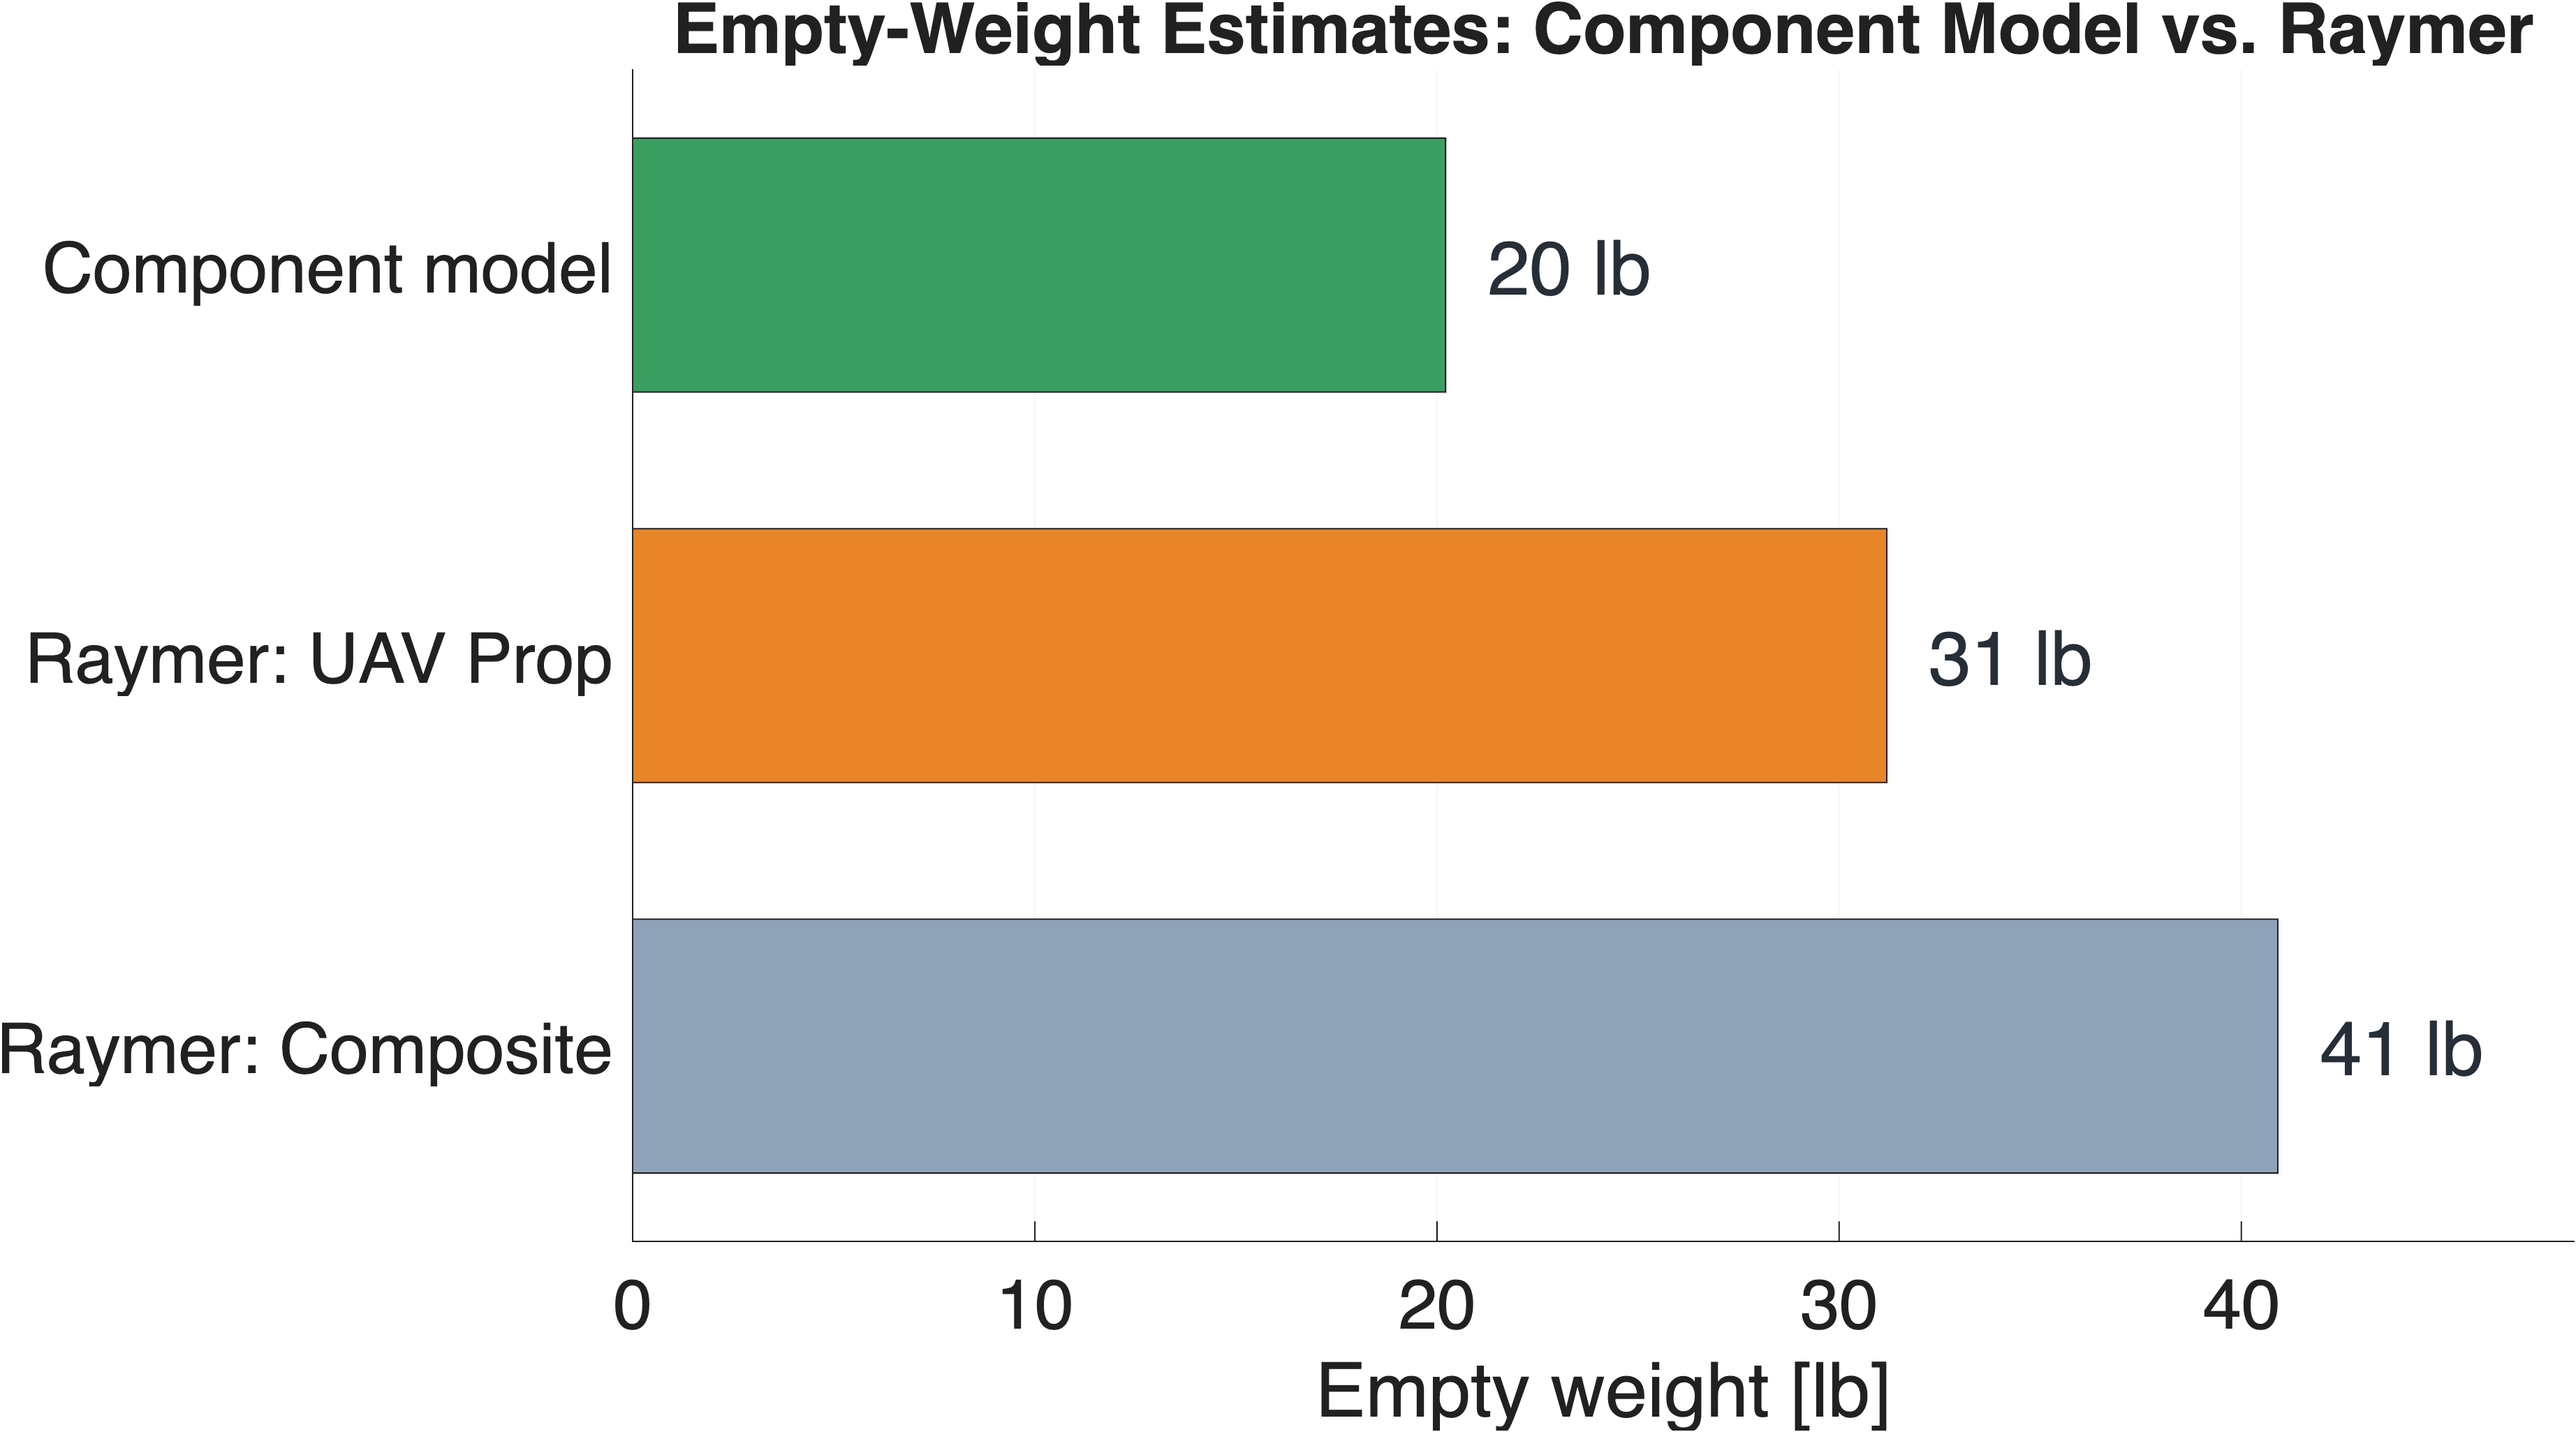
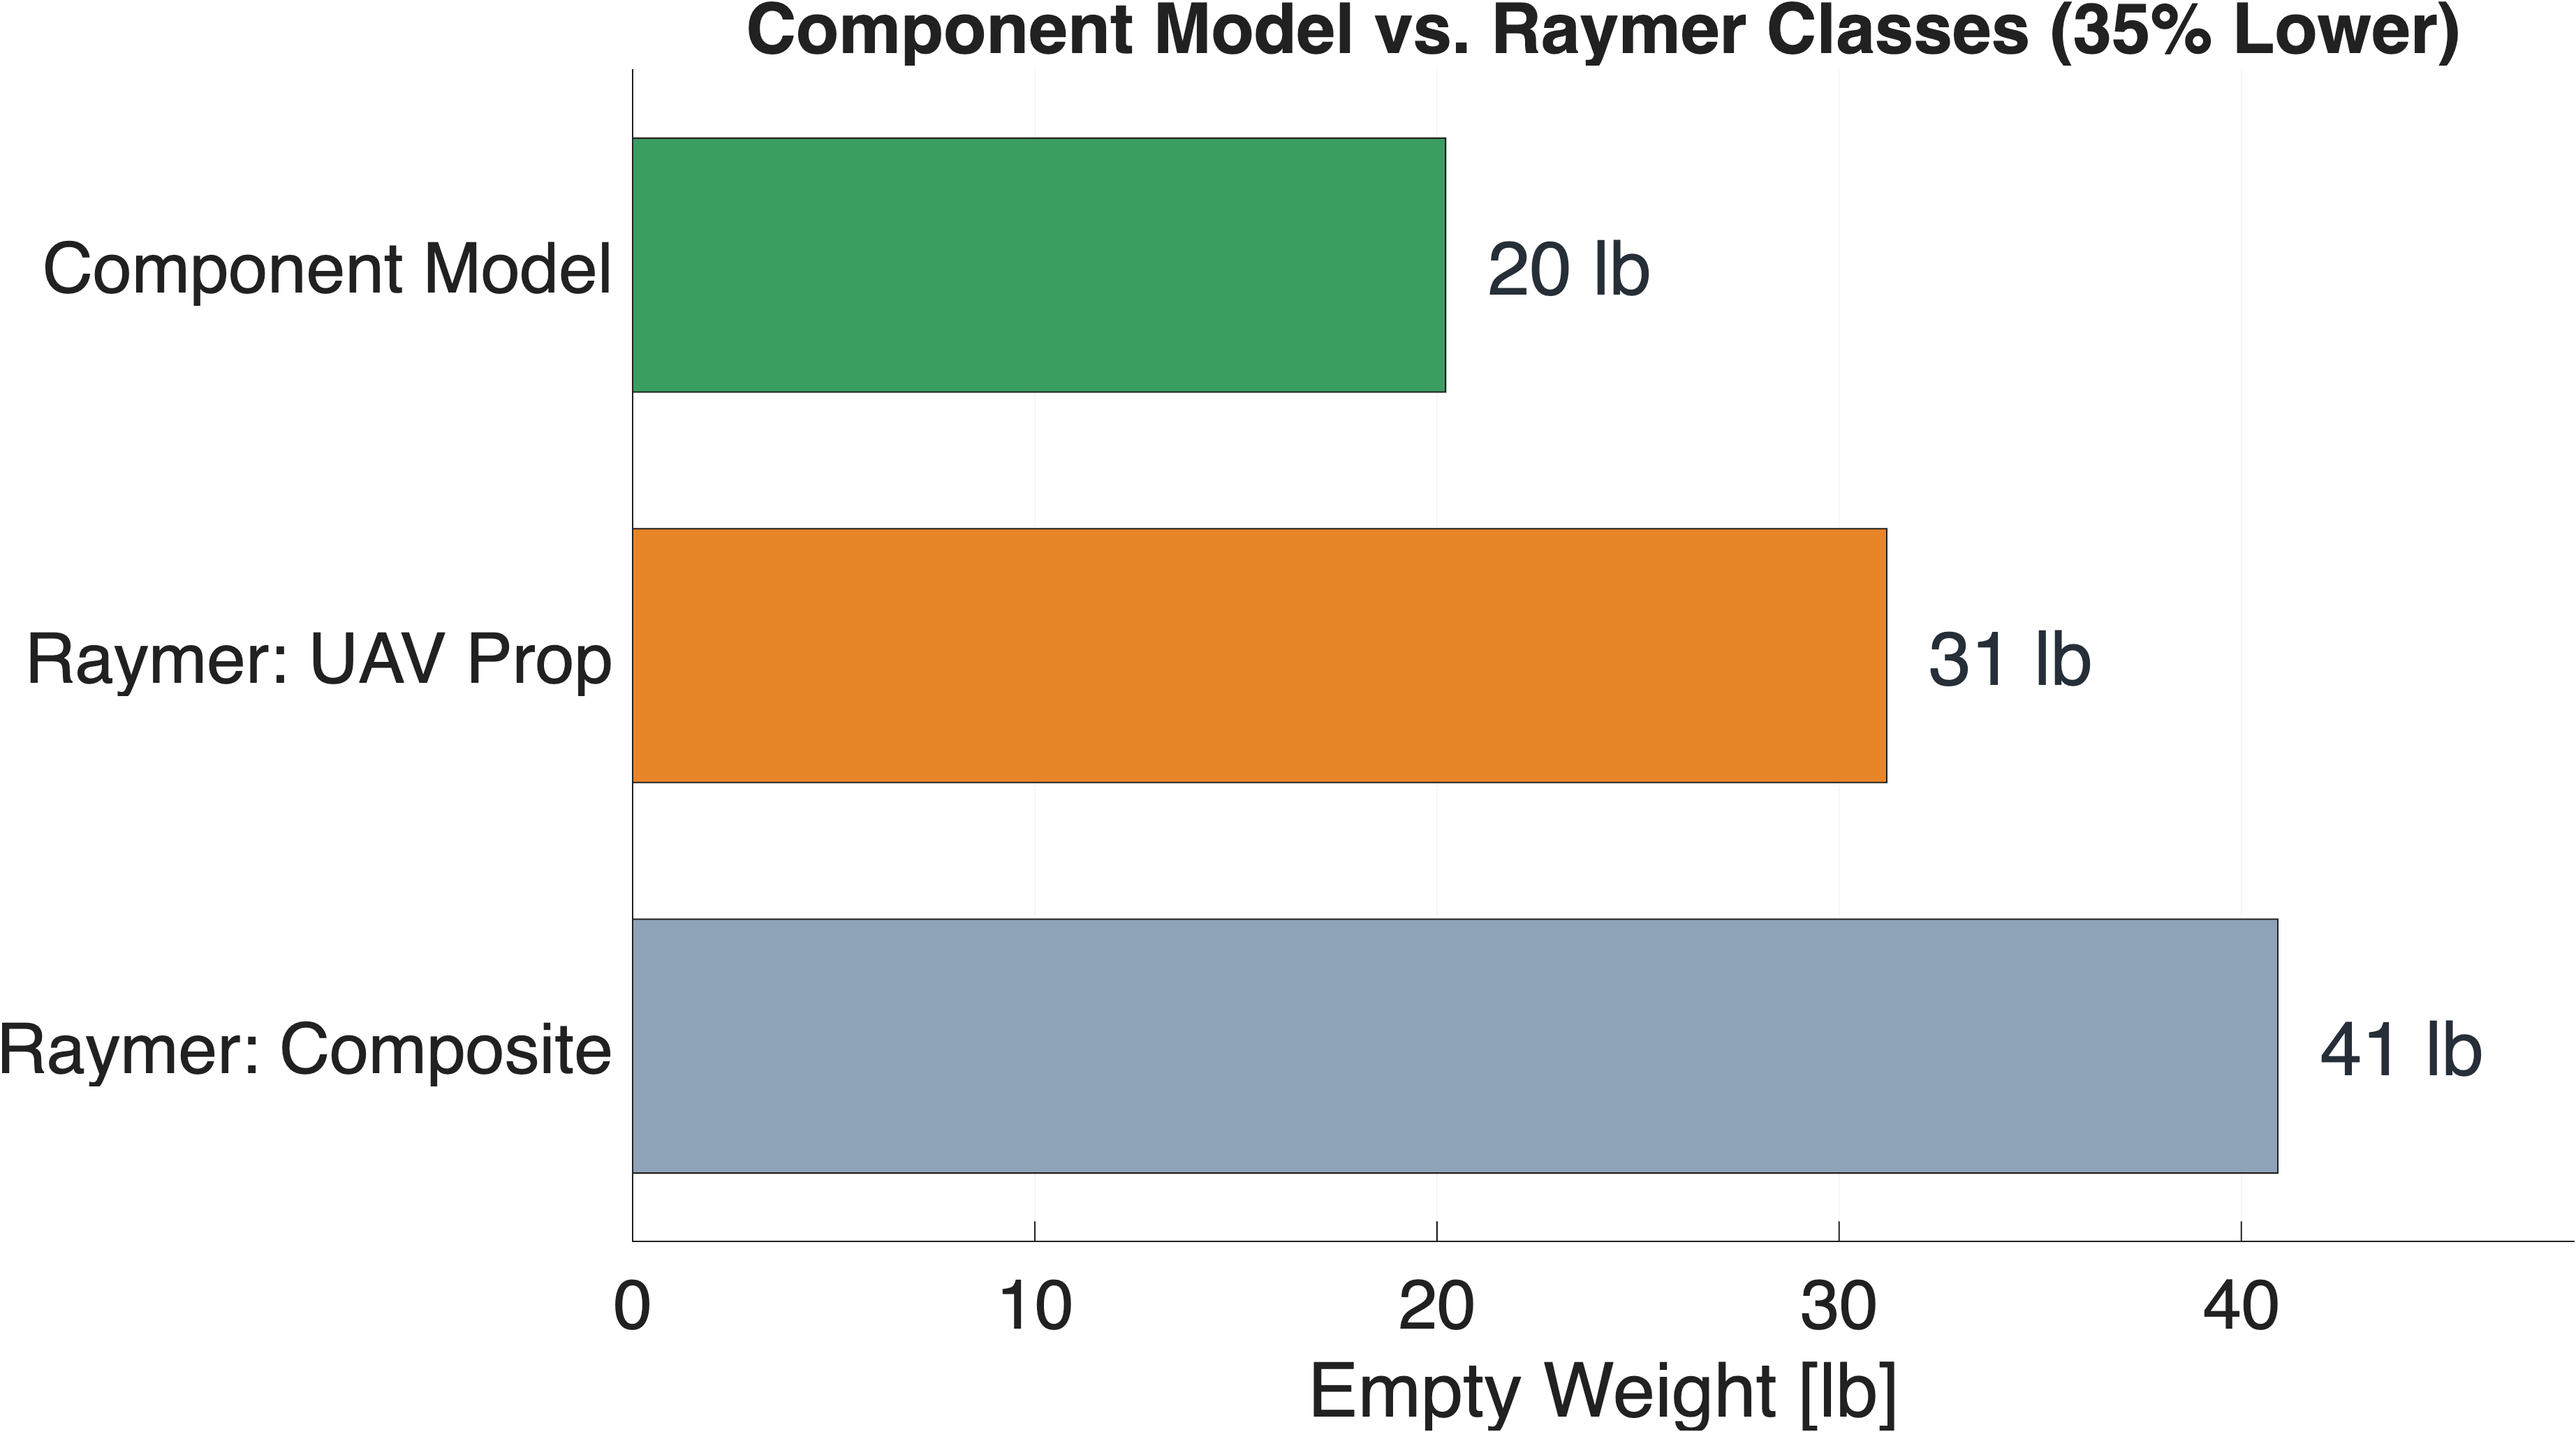
small plot changes

Changed region(s): [[0.2494, 0.0, 0.9976, 0.0624], [0.4988, 0.9361, 0.7482, 0.9985], [0.1559, 0.156, 0.187, 0.2184]]

diff --git a/USE_THIS_DESIGN_CODE/Main Model Functions/Mission Sizing/sizing.m b/USE_THIS_DESIGN_CODE/Main Model Functions/Mission Sizing/sizing.m
@@ -280,6 +280,7 @@ function [W0,FinalWeightData,IterationData,FinalSegmentData,outputTable,msgs,Wei
         plotLabels = replace(plotModels,'_',' ');
         raymerRows = plotModels ~= "Component model";
         plotLabels(raymerRows) = "Raymer: " + plotLabels(raymerRows);
+        plotLabels(plotModels == "Component model") = "Component Model";
         plotLabels(plotModels == "Homebuilt_Composite_Prop") = "Raymer: Composite";
 
         [~,ax] = weightPlotAxes('comparison');
@@ -302,8 +303,15 @@ function [W0,FinalWeightData,IterationData,FinalSegmentData,outputTable,msgs,Wei
         ax.YGrid = 'off';
         ax.GridColor = [0.82 0.86 0.90];
         ax.GridAlpha = 0.25;
-        xlabel(ax,'Empty weight [lb]','FontSize',26);
-        title(ax,'Empty-Weight Estimates: Component Model vs. Raymer','FontSize',24);
+        xlabel(ax,'Empty Weight [lb]','FontSize',26);
+        uavEstimate = Empty_lb(Model == uavCategory);
+        differencePercent = 100*abs(materialEmptyWeight-uavEstimate)/uavEstimate;
+        if materialEmptyWeight < uavEstimate
+            comparisonTitle = sprintf('Component Model vs. Raymer Classes (%.0f%% Lower)',differencePercent);
+        else
+            comparisonTitle = sprintf('Component Model vs. Raymer Classes (%.0f%% Higher)',differencePercent);
+        end
+        title(ax,comparisonTitle,'FontSize',24);
         figuresFolder = fullfile(fileparts(fileparts(fileparts(mfilename('fullpath')))),'figures');
         if ~isfolder(figuresFolder)
             mkdir(figuresFolder);

diff --git a/USE_THIS_DESIGN_CODE/Read Input Functions/Read_Material_Weight.m b/USE_THIS_DESIGN_CODE/Read Input Functions/Read_Material_Weight.m
@@ -89,8 +89,8 @@ Weight_Data.Properties.RowNames = D.Properties.RowNames;
 CG_Data.Properties.RowNames = D.Properties.RowNames;
 
 % Component breakdown for the selected configuration (before battery sizing).
-componentLabels = {'Nose','Fuselage','Wing','Horizontal tail 1','Horizontal tail 2', ...
-    'Vertical tail 1','Vertical tail 2','Payload','Ballast','Systems'};
+componentLabels = {'Nose','Fuselage','Wing','Horizontal Tail 1','Horizontal Tail 2', ...
+    'Vertical Tail 1','Vertical Tail 2','Payload','Ballast','Systems'};
 componentWeights = Weight_Data{1,3:end};
 nonzeroComponents = componentWeights > 0;
 componentLabels = componentLabels(nonzeroComponents);
